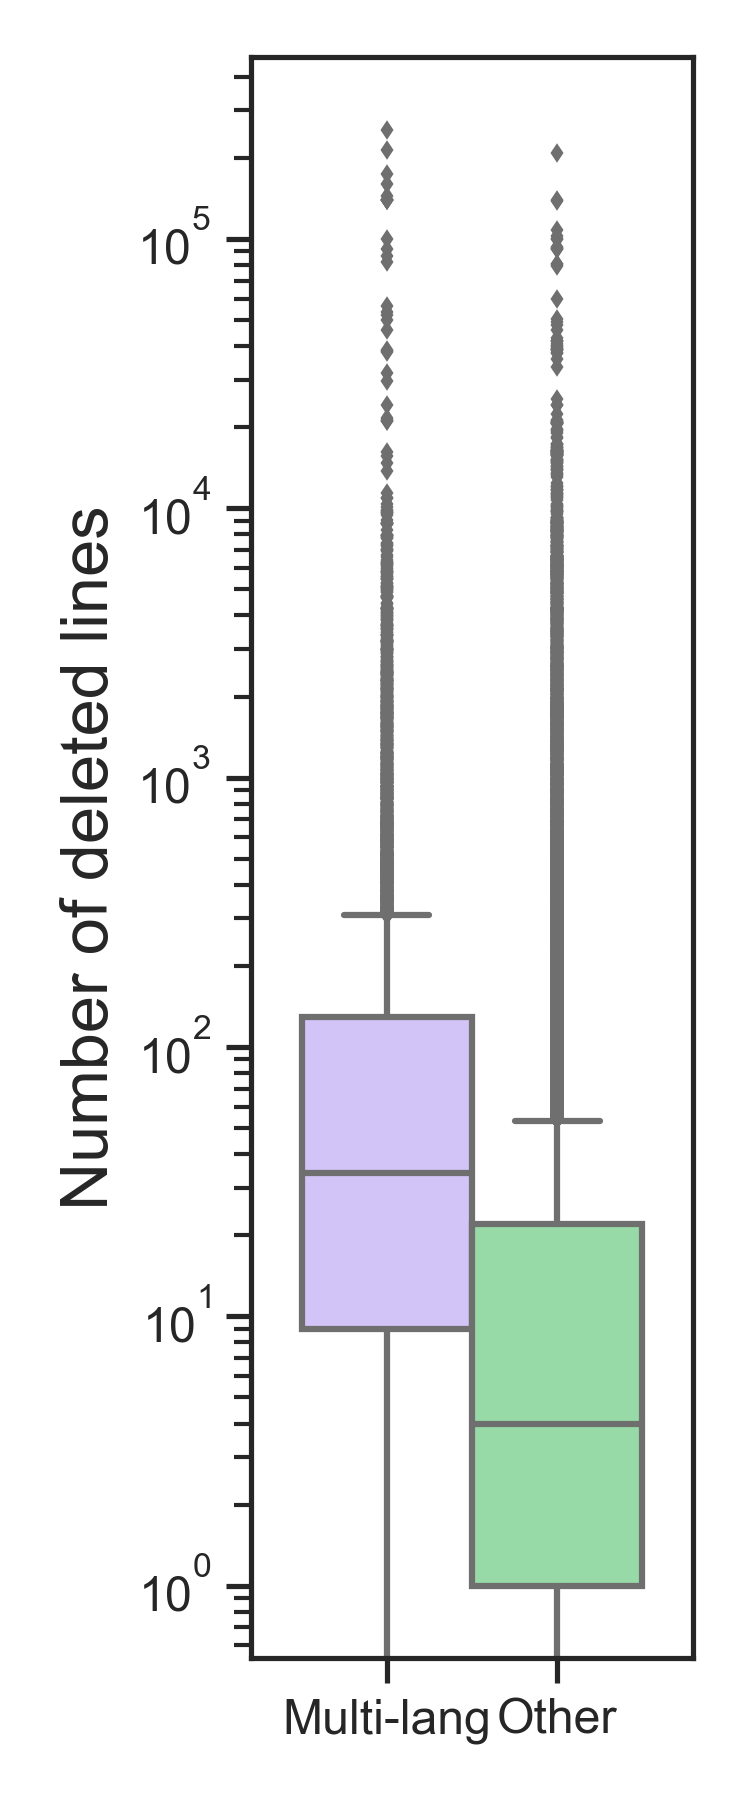
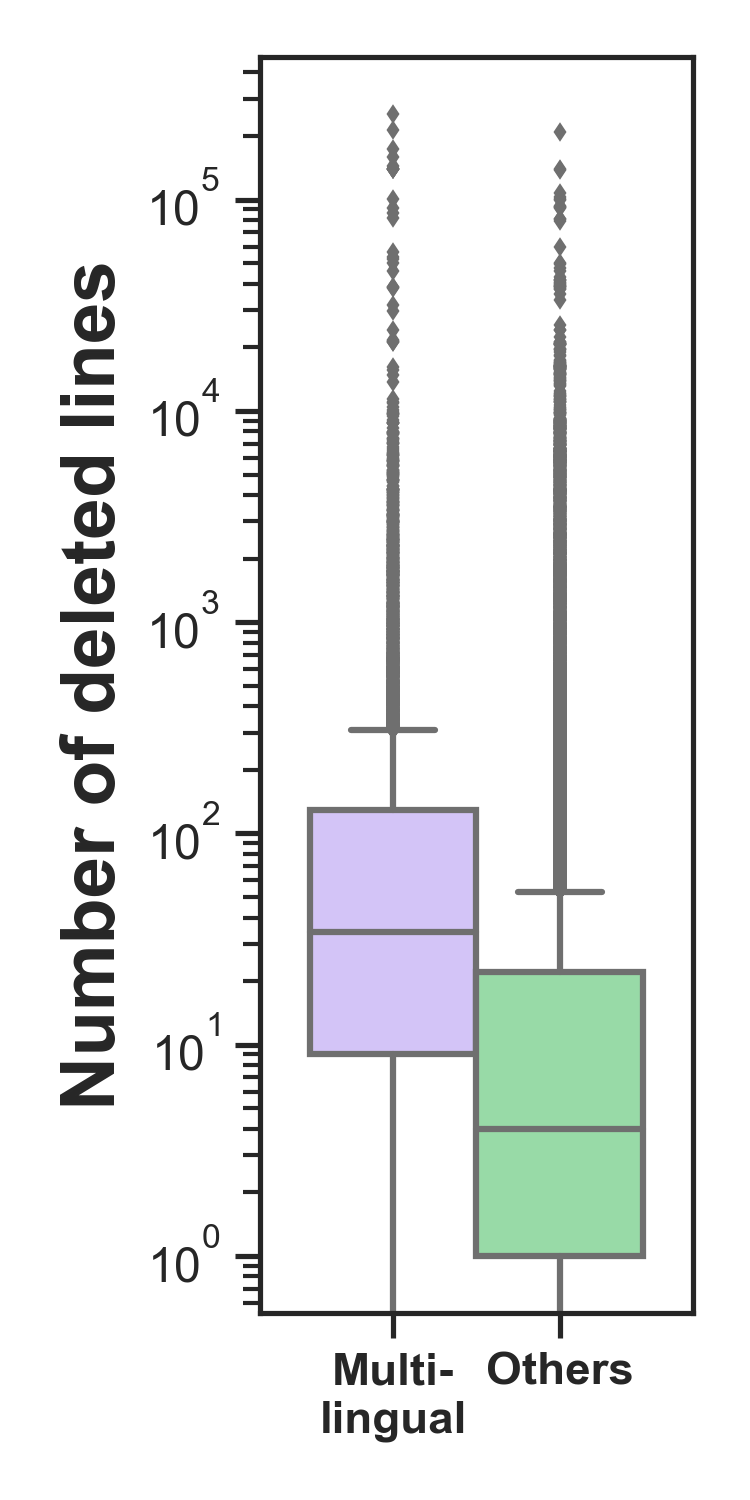
plot style changed

diff --git a/plot_gen/code/repo_multilang_percent_plot.py b/plot_gen/code/repo_multilang_percent_plot.py
@@ -1,4 +1,5 @@
 import os
+from textwrap import wrap
 from git.repo import Repo
 import json
 import csv
@@ -142,7 +143,7 @@ def show_values_on_bars(axs, h_v="v", space=0.4):
 def drawPlot():
     sns.set_theme(style="ticks", palette="pastel")
     data = pd.read_csv(os.path.join(csv_dir, "multi-lang-percent.csv"))
-    fig, ax = pyplot.subplots(figsize=(6, 3.5))
+    fig, ax = pyplot.subplots(figsize=(6, 3))
     plot = sns.histplot(data=data,
                         y="percentage",
                         binwidth=10,
@@ -154,10 +155,11 @@ def drawPlot():
     plot.set_yticks([0, 10, 20, 30, 40, 50, 60, 70, 80, 90])
     ylabels = ['{:,.0f}'.format(x) + '%' for x in plot.get_yticks()]
     plot.set_yticklabels(ylabels)
-    plot.set_xlabel(xlabel="Number of repositories", fontsize=13)
-    plot.set_ylabel(ylabel="Percentage of multi-lang commits", fontsize=14)
+    plot.set_xlabel(xlabel="Number of repositories", fontsize=13, weight='bold', wrap=True)
+    plot.set_ylabel(ylabel="Percentage of multi-lang commits", fontsize=13, weight='bold', wrap=True)
     show_values_on_bars(plot, 'h', 0.3)
     fig.tight_layout()
+    fig.subplots_adjust(left=0.15)
     fig = plot.get_figure()
     fig.savefig(os.path.join(plot_dir, "multi-lang-percent.png"), dpi=300)
 

diff --git a/plot_gen/code/draw_plot.py b/plot_gen/code/draw_plot.py
@@ -1,3 +1,4 @@
+from textwrap import wrap
 import seaborn as sns
 import pandas as pd
 import os
@@ -11,9 +12,12 @@ csv_dir = "../csv"
 plot_dir = "../plots"
 
 for metric in metric_type:
-    sns.set_theme(style="ticks", palette="pastel", font_scale=1.05, font="Arial")
+    sns.set_theme(style="ticks",
+                  palette="pastel",
+                  font_scale=1.05,
+                  font="Arial")
     data = pd.read_csv(os.path.join(csv_dir, metric + ".csv"))
-    f = plt.figure(figsize=[2.5, 6])
+    f = plt.figure(figsize=[2.5, 5])
     ax = f.add_subplot(111)
     plot = sns.boxplot(x="commit type",
                        y=metric + " count",
@@ -25,10 +29,11 @@ for metric in metric_type:
                        width=1,
                        ax=ax)
     plot.set_yscale("log")
+    plot.set_xticklabels(["Multi-\nlingual", "Others"], fontsize=11, weight='bold', wrap=True)
     # plot.set_ylim(bottom=1)
     plot.set_xlim(-0.8, 1.8)
     # ax.set_aspect(0.5)
-    plot.set_ylabel("Number of " + metric, fontsize=16)
+    plot.set_ylabel("Number of " + metric, fontsize=18, weight='bold')
     plot.set_xlabel("")
     f.tight_layout()
     fig = plot.get_figure()

diff --git a/stat_szz_res.py b/stat_szz_res.py
@@ -17,14 +17,21 @@ def forOneRepo(owner, repo_name):
 
     repo_cross_commit_cnt = 0
     repo_commit_cnt = 0
+    repo = Repo(os.path.join(repo_dir, owner + "-" + repo_name))
+    pairs = set()
     with open(
             os.path.join(szz_dir, repo_name, "results",
                          "fix_and_introducers_pairs.json"), 'r') as fd:
         content = fd.read()
         array = json.loads(content)
         for pair in array:
+            fix_commit = pair[0]
             bug_commit = pair[1]
-            repo = Repo(os.path.join(repo_dir, owner + "-" + repo_name))
+            p = (fix_commit, bug_commit)
+            if p in pairs:
+                continue
+            else:
+                pairs.add(p)
             commit = repo.commit(bug_commit)
 
             xml_cnt = 0
@@ -59,7 +66,7 @@ def all():
     for line in lines:
         owner, filename = line.split(" ")
         forOneRepo(owner, filename)
-    print(16*'=')
+    print(16 * '=')
     print("cross-lang: {}, all: {}".format(commit_cross, all_commit_cnt))
 
 
